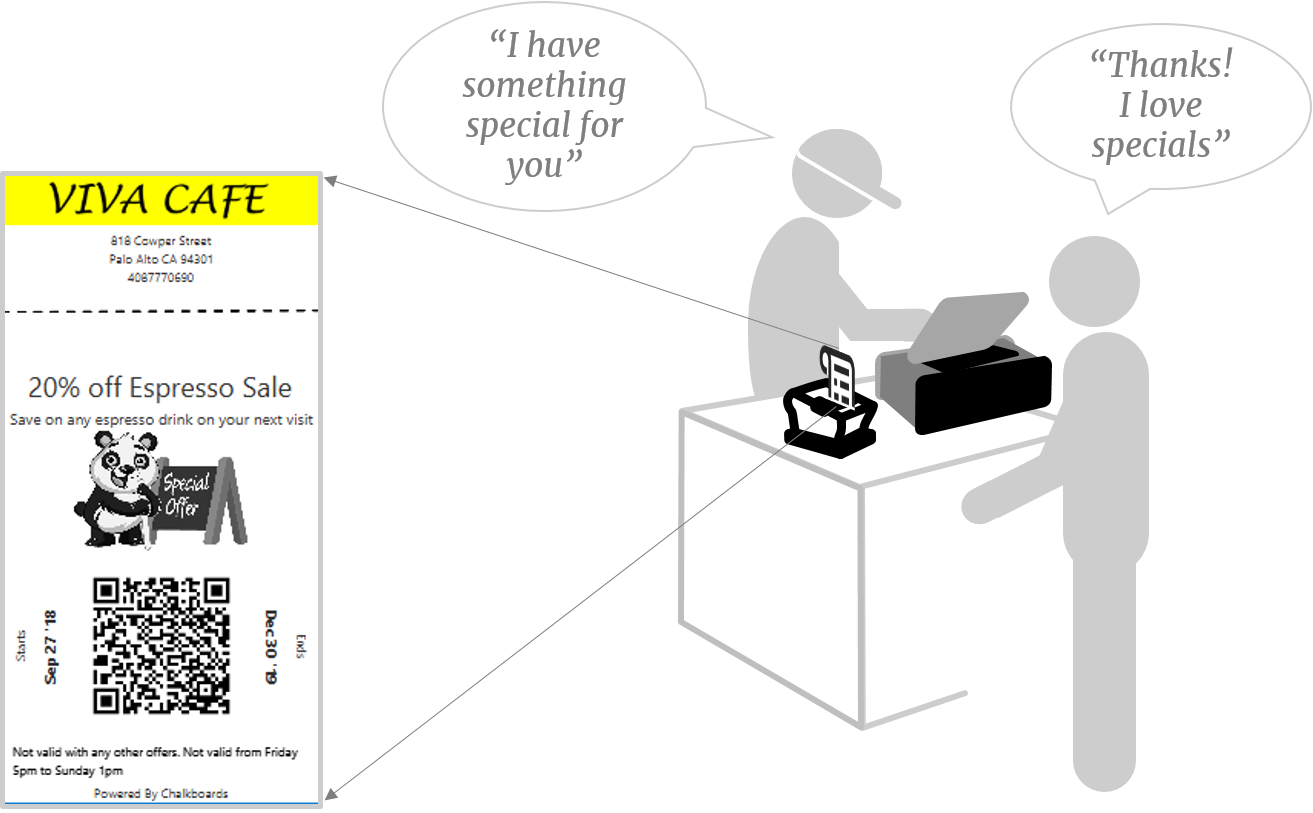
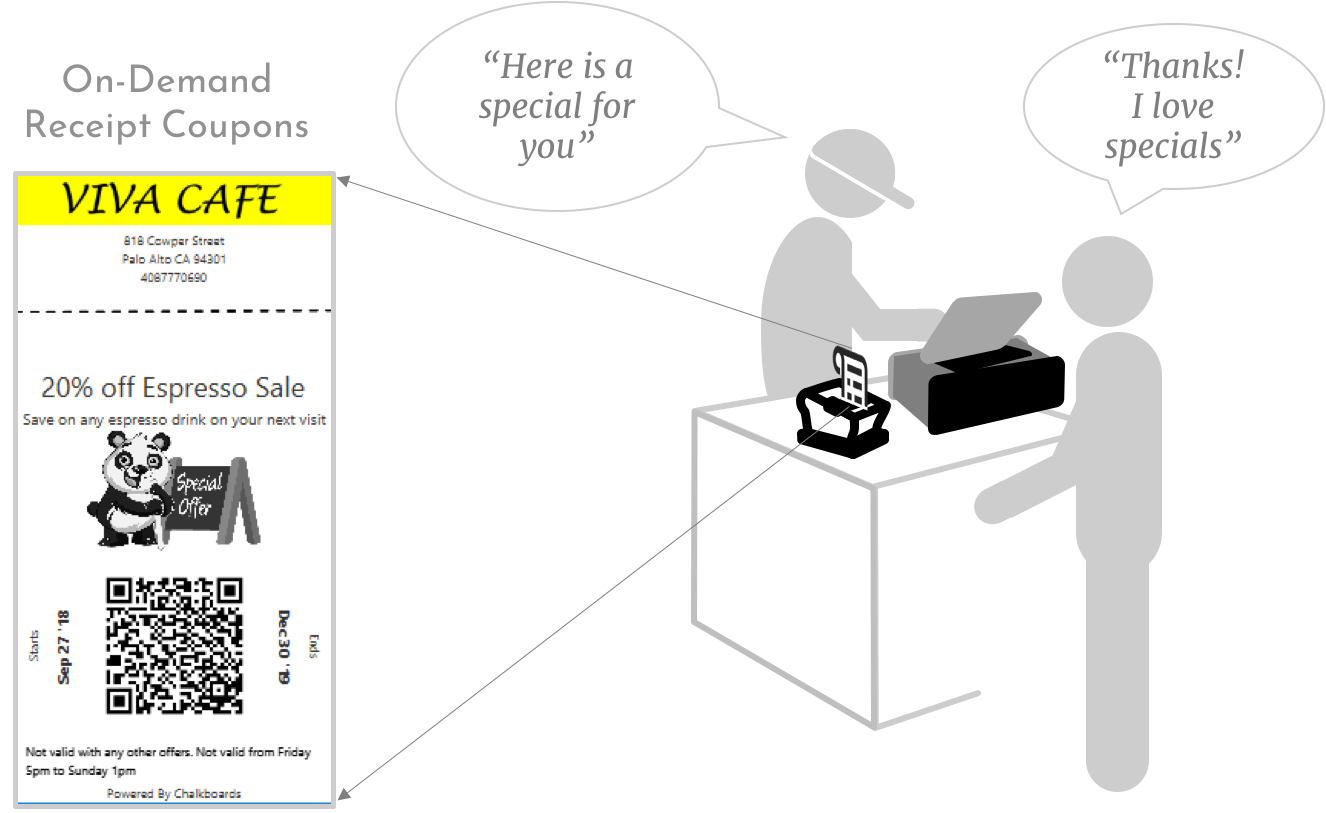
Update

diff --git a/app/app_sitelette/sitefiles/pages/content_index.html b/app/app_sitelette/sitefiles/pages/content_index.html
@@ -4,8 +4,8 @@
     <div class="row heading_block ">
       <div class="col-lg-offset-2 col-md-offset-2 col-sm-offset-2 col-xs-12 col-sm-8   col-md-8   col-lg-8">
         <div>
-          <p class="push_down main_heading_styled"> A new point-of-sale </p> <!--  -->
-          <p class="main_heading"> That will do marketing for you!</p>
+          <p class="push_down main_heading_styled"> A new Point-of-Sale  </p> <!--  -->
+          <p class="main_heading"> That can do marketing for you!</p>
           </br>
           <span class="main_heading_smaller"> So you can save more, sell more and promote more </span>
         </div>
@@ -88,7 +88,7 @@
     <div class="row">
       <div class="col-xs-12 col-sm-12 col-md-12 col-lg-12">
         <div class="paragrah_heading text-center" style="padding-top:140px;">
-          "Here is a special for you!"
+          Key-tag or mobile check-in
         </div>
       </div>
     </div>
@@ -97,15 +97,14 @@
         <div class="paragraph_text" style="padding-top:30px; padding-bottom:40px; text-align:left;">
           <ul>
             <li>
-              Do you like this customer? Do you want him to come back? 
+              Loyalty works. This point-of-sale makes effortless for you and your customers.
             </li>
             <li>  
-              Go ahead, print out a coupon, ONLY for him! Customers love the special attention.
+              Key-tags or mobile number or email, use whichever your customers prefer
             </li>
             <li>  
-               And you are in full control, because you recognize a good customer when you see one.
+              The key-tag works with all businesses, so your customer needs only one.
             </li>
-          
           </ul>
         </div>
       </div>
@@ -116,7 +115,7 @@
   <div class="container-fluid">
     <div class="row" style="padding-bottom:140px;">
       <div class="col-xs-12 col-sm-12 col-md-offset-1 col-md-10 col-lg-10 col-lg-offset-1">
-        <img src="sitefiles/images/landing/receiptCoupon.png" class="center-block img-responsive" </>
+        <img src="sitefiles/images/landing/keyTag.png" class="center-block img-responsive" </>
       </div>
     </div>
   </div>
@@ -124,17 +123,53 @@
 
 
 
-
+<section id="pos" class="white_background">
+  <div class="container-fluid">
+    <div class="row">
+      <div class="col-xs-12 col-sm-12 col-md-12 col-lg-12">
+        <div class="paragrah_heading text-center" style="padding-top:140px;">
+          Paperless promotions
+        </div>
+      </div>
+    </div>
+    <div class="row">
+      <div class="col-lg-offset-2 col-md-offset-2 col-xs-12 col-sm-12 col-md-8 col-lg-8">
+        <div class="paragraph_text" style="padding-top:30px; padding-bottom:40px; text-align:left;">
+          <ul>
+            <li>
+              Many customers may prefer paperless digital coupons
+            </li>
+            <li>  
+              This point-of-sale can create and send email/text promotions
+            </li>
+            <li>  
+              But you still get to decide who gets a promo, you are always in control
+            </li>
+          </ul>
+        </div>
+      </div>
+    </div>
+  </div>
+</section>
+<section id="unifiedorders" class="white_background">
+  <div class="container-fluid">
+    <div class="row" style="padding-bottom:140px;">
+      <div class="col-xs-12 col-sm-12 col-md-offset-1 col-md-10 col-lg-10 col-lg-offset-1">
+        <img src="sitefiles/images/landing/emailText.png" class="center-block img-responsive" </>
+      </div>
+    </div>
+  </div>
+</section>
 
 <section id="increaseprofit" class="white_background">
   <div class="container-fluid secondary_block_mkt ">
     <div class="row overlay-black ">
       <div class="col-lg-offset-2 col-md-offset-2 col-sm-offset-1 col-xs-12 col-sm-10   col-md-8   col-lg-8">
         <div style="padding-top:140px;padding-bottom:20px;">
-          <p class="text-center secondary_block_heading"> Increase sales</p>
+          <p class="text-center secondary_block_heading"> Self-service sales</p>
           </br>
           <p class="secondary_block_text" style="padding-bottom:100px;">
-            Increase sales and reduce waste with real-time promotions and email/text notifications. Engage your customers the modern way, on their mobiles.
+            Increase sales and reduce waste with real-time promotions and email/text notifications that work on your self-service kiosk. Engage your customers the modern way, on their mobiles.
           </p>
         </div>
       </div>
@@ -146,7 +181,7 @@
     <div class="row">
       <div class="col-xs-12 col-sm-12 col-md-12 col-lg-12">
         <div class="paragrah_heading text-center" style="padding-top:140px;">
-          Marketing and promotion tools are built-in
+          In-store, out of store
         </div>
       </div>
     </div>
